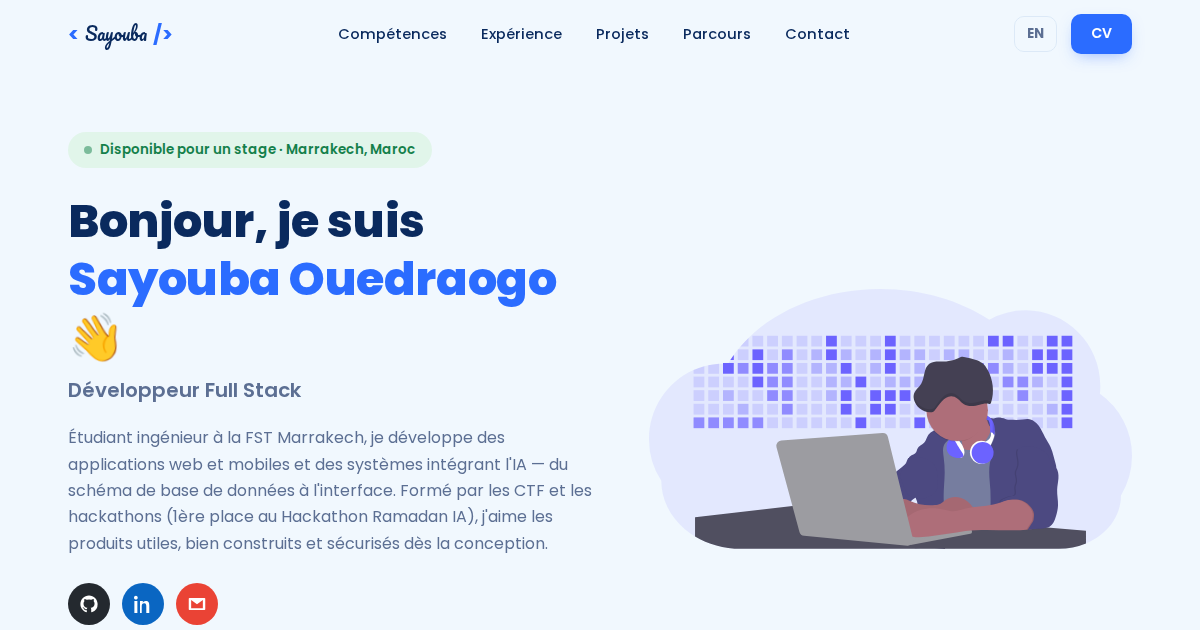
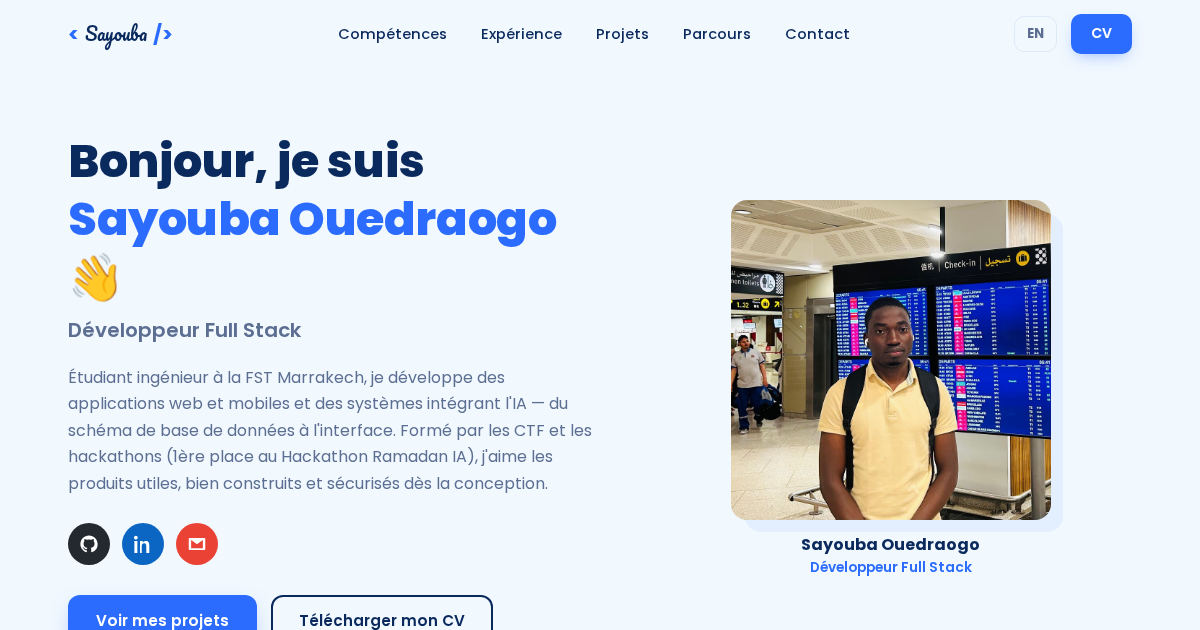
feat: photo de profil dans le hero (cadre épuré, légende nom + titre)
Remplace l'illustration du hero par la vraie photo (version web optimisée
208 Ko), fond bleu décalé sans carte blanche, légende sous la photo.
Retire le badge de disponibilité. Recapture l'og-image.

Changed region(s): [[0.0308, 0.2111, 0.4933, 1.0], [0.555, 0.3016, 0.925, 0.9349]]

diff --git a/src/styles.css b/src/styles.css
@@ -175,21 +175,6 @@ a:hover .arr-ur { transform: translate(3px, -3px); }
 /* ---------- Hero ---------- */
 .hero { padding: calc(var(--nav-h) + 64px) 0 40px; }
 .hero-inner { display: grid; grid-template-columns: 1.05fr 0.95fr; gap: 48px; align-items: center; }
-.hero-badge {
-    display: inline-flex;
-    align-items: center;
-    gap: 8px;
-    font-size: 0.84rem;
-    font-weight: 600;
-    color: var(--green);
-    background: var(--green-soft);
-    border-radius: 99px;
-    padding: 7px 16px;
-    margin-bottom: 24px;
-    animation: hero-up 0.6s 0.05s var(--ease) both;
-}
-.hero-badge .dot { width: 8px; height: 8px; border-radius: 50%; background: var(--green); animation: pulse 2s infinite; }
-@keyframes pulse { 50% { opacity: 0.35; } }
 .hero h1 {
     font-size: clamp(1.9rem, 4.2vw, 2.9rem);
     font-weight: 800;
@@ -264,6 +249,38 @@ a:hover .arr-ur { transform: translate(3px, -3px); }
     font-size: 0.97rem;
 }
 .wid-body li::before { content: "⚡"; position: absolute; left: 0; }
+/* ---------- Cadre photo (bloc IA) ---------- */
+.photo-frame {
+    position: relative;
+    z-index: 0;
+    width: min(320px, 100%);
+    margin: 0 auto;
+}
+.photo-frame::before {
+    content: "";
+    position: absolute;
+    top: 14px;
+    right: -12px;
+    left: 14px;
+    aspect-ratio: 1 / 1;
+    border-radius: var(--radius);
+    background: var(--blue-soft);
+    z-index: -1;
+}
+.photo-frame img {
+    width: 100%;
+    aspect-ratio: 1 / 1;
+    object-fit: cover;
+    border-radius: var(--radius);
+}
+.photo-frame figcaption {
+    text-align: center;
+    margin-top: 14px;
+    line-height: 1.4;
+}
+.photo-frame figcaption strong { display: block; font-size: 1rem; }
+.photo-frame figcaption span { font-size: 0.86rem; font-weight: 600; color: var(--blue); }
+
 .stack-line { margin-top: 72px; text-align: center; }
 .stack-line p { font-weight: 700; margin-bottom: 16px; }
 .stack-line .chips { justify-content: center; }
@@ -611,8 +628,8 @@ a:hover .arr-ur { transform: translate(3px, -3px); }
 @media (prefers-reduced-motion: reduce) {
     html { scroll-behavior: auto; }
     .reveal, .arr, .card, .btn { transition: none; }
-    .page-enter, .hero-badge, .hero h1, .hero-role, .hero-about,
-    .hero-socials, .hero-ctas, .hero-illu, .wave, .hero-badge .dot { animation: none; }
+    .page-enter, .hero h1, .hero-role, .hero-about,
+    .hero-socials, .hero-ctas, .hero-illu, .wave { animation: none; }
 }
 
 /* ---------- Responsive ---------- */

diff --git a/src/pages/Home.jsx b/src/pages/Home.jsx
@@ -28,9 +28,6 @@ function Hero() {
         <section className="hero" id="accueil">
             <div className="container hero-inner">
                 <div className="hero-text">
-                    <span className="hero-badge">
-                        <span className="dot" aria-hidden="true" /> {L(site.status)} · {L(site.location)}
-                    </span>
                     <h1>
                         {L(ui.hero.hello)}{" "}
                         <span className="hero-name">{site.name}</span>{" "}
@@ -60,7 +57,13 @@ function Hero() {
                     </div>
                 </div>
                 <div className="hero-illu">
-                    <img src={asset("images/illustrations/developerActivity.svg")} alt="" width="540" height="405" />
+                    <figure className="photo-frame">
+                        <img src={asset(site.photo)} alt={site.name} width="320" height="320" />
+                        <figcaption>
+                            <strong>{site.name}</strong>
+                            <span>{L(site.role)}</span>
+                        </figcaption>
+                    </figure>
                 </div>
             </div>
         </section>

diff --git a/src/data/content.js b/src/data/content.js
@@ -19,7 +19,7 @@ export const site = {
     github: "https://github.com/sayouba2",
     linkedin: "https://linkedin.com/in/ouedraogo-sayouba-121722258",
     cvUrl: "mescv/CV_OUEDRAOGO_SAYOUBA_DEV.pdf",
-    photo: "images/pictures/profile.jpeg",
+    photo: "images/pictures/profile-web.jpg",
 }
 
 export const ui = {
